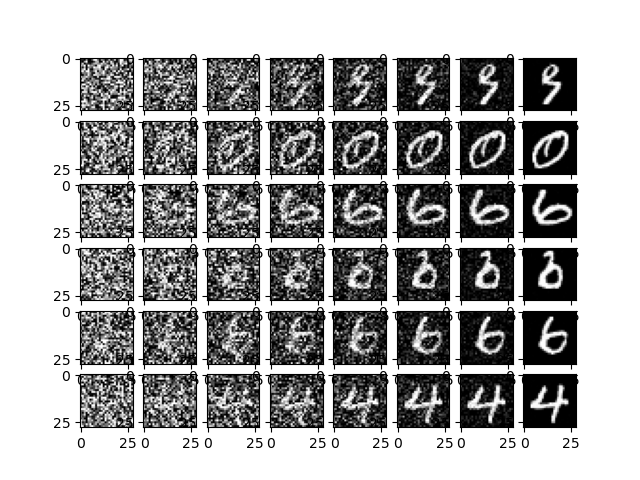
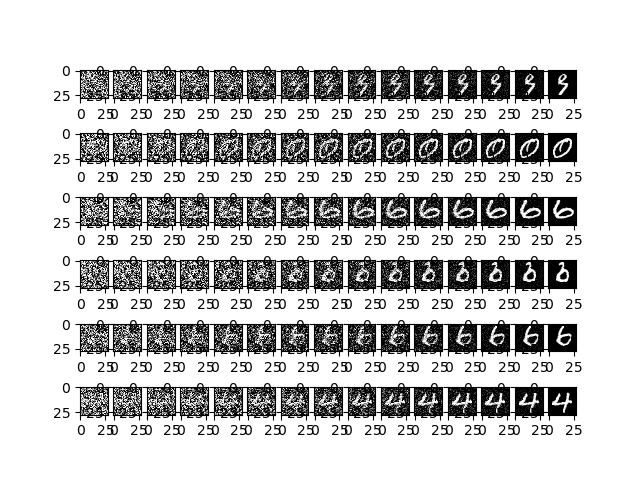
finish DDPM_MNIST

diff --git a/DDPM_MNIST/run.py b/DDPM_MNIST/run.py
@@ -63,7 +63,9 @@ def sample(ck_path):
     size = (256, 1, 28, 28)
     z = torch.randn(size).to(device)
 
-    out = convert_image_to_natural(model.reverse_process(z, show_process=True, img_nums=6, process_nums=8, save_path=process_save_path))
+    # we show 15 diffusion process
+    out = convert_image_to_natural(
+        model.reverse_process(z, show_process=True, img_nums=6, process_nums=15, save_path=process_save_path))
     out = make_grid(out, nrow=16)
     save_image(out, image_save_path)
 
